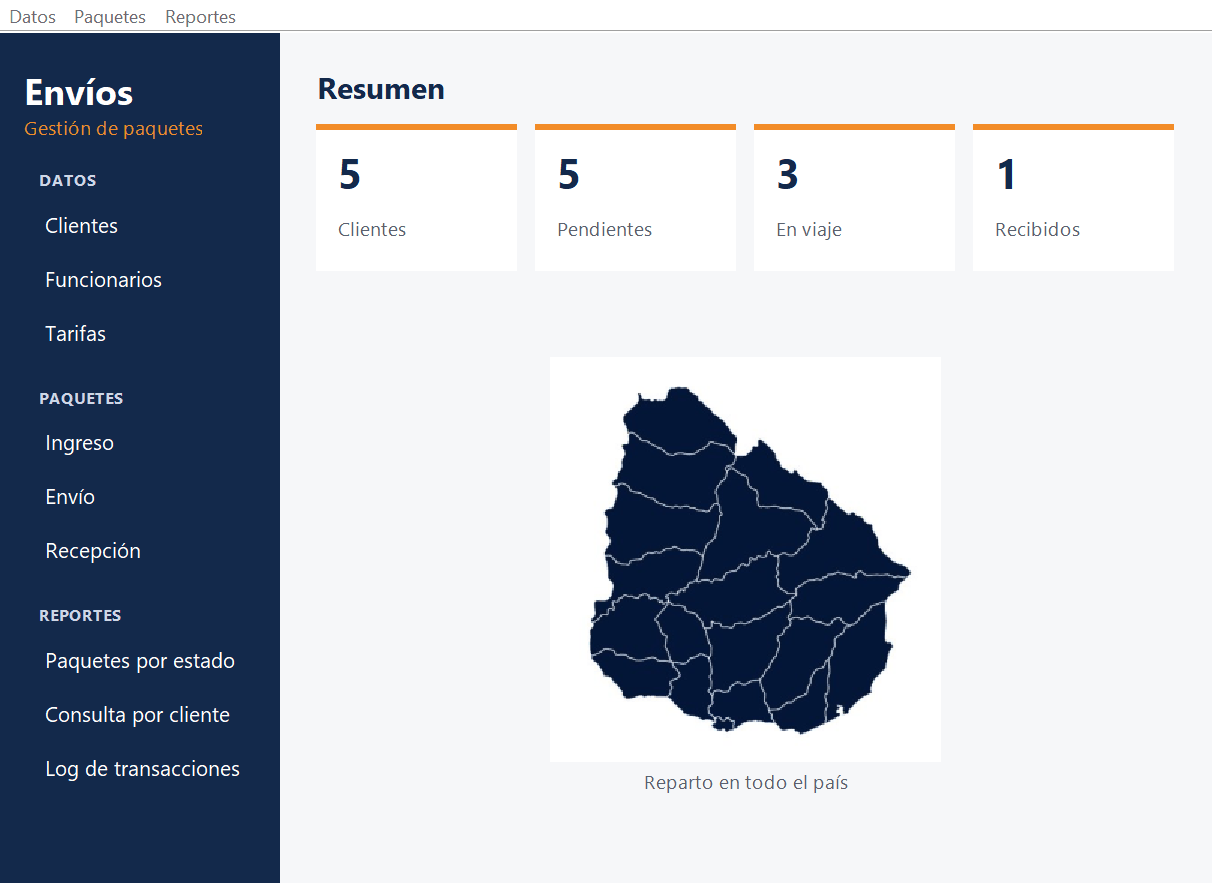
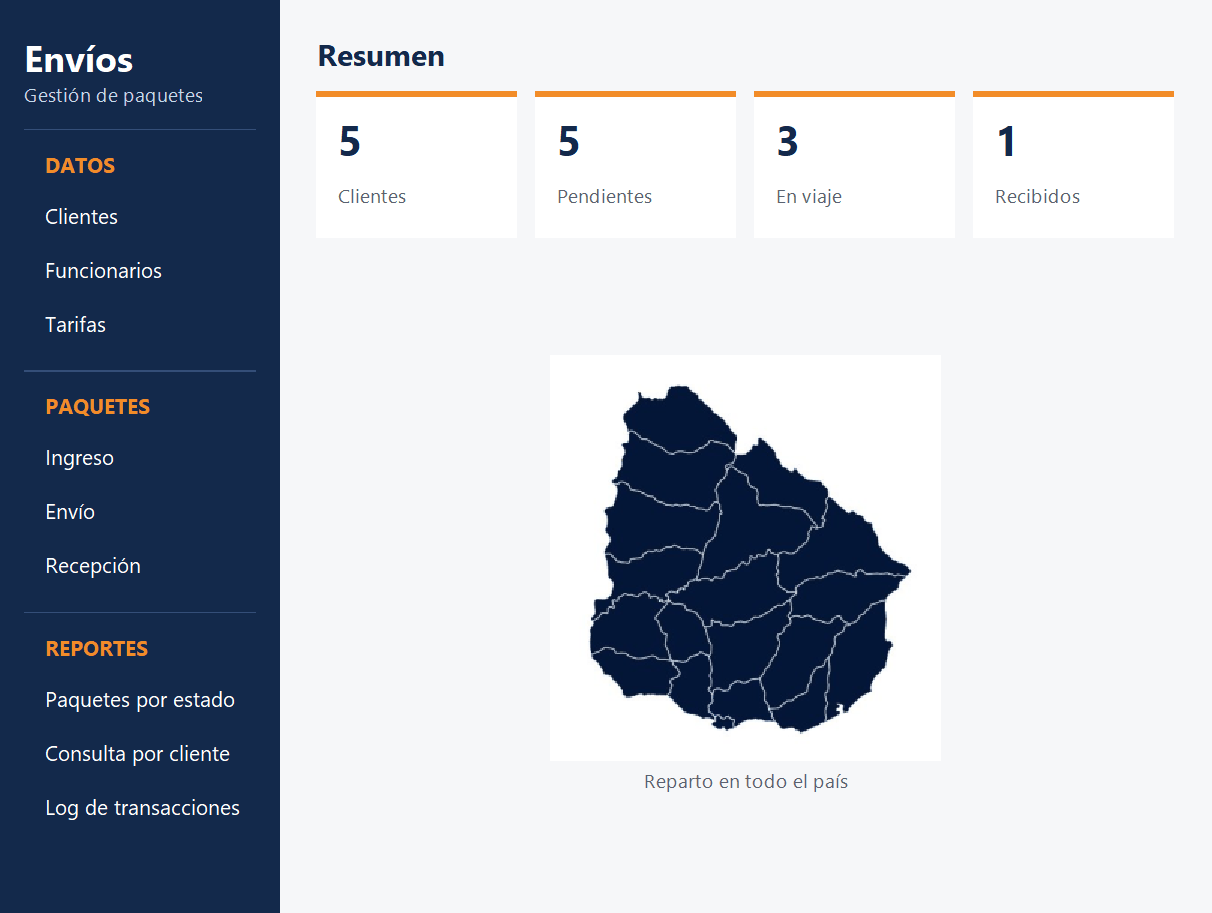
estilo: menú solo con la barra lateral y títulos de sección destacados
- Se quita la barra de menús (del .form y del código generado): las opciones están solo en la barra lateral.
  Los métodos que abrían cada ventana pasan a ser métodos comunes (abrirClientes, etc.).
- Los títulos de sección (Datos, Paquetes, Reportes) van en naranja, más grandes y separados por una línea.

diff --git a/src/interfaz/VentanaMenu.java b/src/interfaz/VentanaMenu.java
@@ -21,7 +21,6 @@ public class VentanaMenu extends javax.swing.JFrame implements Observer {
 
     // Pantalla de inicio: barra lateral con todas las opciones a la vista y, a la derecha, un resumen
     // que se actualiza solo (la ventana es Observer del sistema, igual que las demás).
-    // La barra de menús del diseñador queda arriba como atajo de teclado (Alt).
     private void armarInicio() {
         JPanel lateral = new JPanel();
         lateral.setLayout(new BoxLayout(lateral, BoxLayout.Y_AXIS));
@@ -32,22 +31,22 @@ public class VentanaMenu extends javax.swing.JFrame implements Observer {
         lblNombre.setFont(new Font("Segoe UI", Font.BOLD, 24));
         lblNombre.setForeground(Color.WHITE);
         JLabel lblLema = new JLabel("Gestión de paquetes");
-        lblLema.setForeground(Estilo.NARANJA);
+        lblLema.setForeground(Estilo.AZUL_TEXTO);
         lateral.add(lblNombre);
         lateral.add(lblLema);
 
         agregarSeccion(lateral, "DATOS");
-        lateral.add(crearBoton("Clientes", this::opcionClientesActionPerformed));
-        lateral.add(crearBoton("Funcionarios", this::opcionFuncionariosActionPerformed));
-        lateral.add(crearBoton("Tarifas", this::opcionTarifasActionPerformed));
+        lateral.add(crearBoton("Clientes", click -> abrirClientes()));
+        lateral.add(crearBoton("Funcionarios", click -> abrirFuncionarios()));
+        lateral.add(crearBoton("Tarifas", click -> abrirTarifas()));
         agregarSeccion(lateral, "PAQUETES");
-        lateral.add(crearBoton("Ingreso", this::opcionIngresoActionPerformed));
-        lateral.add(crearBoton("Envío", this::opcionEnvioActionPerformed));
-        lateral.add(crearBoton("Recepción", this::opcionRecepcionActionPerformed));
+        lateral.add(crearBoton("Ingreso", click -> abrirIngreso()));
+        lateral.add(crearBoton("Envío", click -> abrirEnvio()));
+        lateral.add(crearBoton("Recepción", click -> abrirRecepcion()));
         agregarSeccion(lateral, "REPORTES");
-        lateral.add(crearBoton("Paquetes por estado", this::opcionPaquetesPorEstadosActionPerformed));
-        lateral.add(crearBoton("Consulta por cliente", this::opcionConsultasPorClienteActionPerformed));
-        lateral.add(crearBoton("Log de transacciones", this::opcionLogTransaccionesActionPerformed));
+        lateral.add(crearBoton("Paquetes por estado", click -> abrirPaquetesPorEstado()));
+        lateral.add(crearBoton("Consulta por cliente", click -> abrirConsultaPorCliente()));
+        lateral.add(crearBoton("Log de transacciones", click -> abrirLogTransacciones()));
 
         lblClientes = new JLabel();
         lblPendientes = new JLabel();
@@ -87,19 +86,25 @@ public class VentanaMenu extends javax.swing.JFrame implements Observer {
         contenido.add(centro, BorderLayout.CENTER);
         setContentPane(contenido);
         setTitle("Envíos - Menú principal");
-        setSize(820, 620);
+        setSize(820, 640);
         setLocationRelativeTo(null);
     }
 
+    // Título de un grupo de opciones: en naranja y separado del grupo anterior por una línea fina.
     private void agregarSeccion(JPanel lateral, String nombre) {
         JLabel lblSeccion = new JLabel(nombre);
-        lblSeccion.setFont(new Font("Segoe UI", Font.BOLD, 11));
-        lblSeccion.setForeground(Estilo.AZUL_TEXTO);
-        lblSeccion.setBorder(BorderFactory.createEmptyBorder(18, 10, 4, 0));
+        lblSeccion.setFont(new Font("Segoe UI", Font.BOLD, 14));
+        lblSeccion.setForeground(Estilo.NARANJA);
+        lblSeccion.setBorder(BorderFactory.createCompoundBorder(
+                BorderFactory.createEmptyBorder(14, 0, 0, 0),
+                BorderFactory.createCompoundBorder(
+                        BorderFactory.createMatteBorder(1, 0, 0, 0, new Color(52, 78, 120)),
+                        BorderFactory.createEmptyBorder(12, 14, 6, 0))));
+        lblSeccion.setMaximumSize(new Dimension(Integer.MAX_VALUE, lblSeccion.getPreferredSize().height));   // la línea ocupa todo el ancho
         lateral.add(lblSeccion);
     }
 
-    // Botón de la barra lateral: ejecuta la misma acción que la opción de la barra de menús.
+    // Botón de la barra lateral.
     private JButton crearBoton(String texto, java.awt.event.ActionListener accion) {
         JButton boton = new JButton(texto);
         Estilo.botonLateral(boton);
@@ -155,112 +160,12 @@ public class VentanaMenu extends javax.swing.JFrame implements Observer {
     // <editor-fold defaultstate="collapsed" desc="Generated Code">//GEN-BEGIN:initComponents
     private void initComponents() {
 
-        jMenuBar = new javax.swing.JMenuBar();
-        jMenuDatos = new javax.swing.JMenu();
-        opcionClientes = new javax.swing.JMenuItem();
-        opcionFuncionarios = new javax.swing.JMenuItem();
-        opcionTarifas = new javax.swing.JMenuItem();
-        jMenuPaquetes = new javax.swing.JMenu();
-        opcionIngreso = new javax.swing.JMenuItem();
-        opcionEnvio = new javax.swing.JMenuItem();
-        opcionRecepcion = new javax.swing.JMenuItem();
-        jMenuReportes = new javax.swing.JMenu();
-        opcionPaquetesPorEstados = new javax.swing.JMenuItem();
-        opcionConsultasPorCliente = new javax.swing.JMenuItem();
-        opcionLogTransacciones = new javax.swing.JMenuItem();
-
         setDefaultCloseOperation(javax.swing.WindowConstants.EXIT_ON_CLOSE);
         addWindowListener(new java.awt.event.WindowAdapter() {
             public void windowClosing(java.awt.event.WindowEvent evt) {
                 formWindowClosing(evt);
             }
         });
-
-        jMenuDatos.setText("Datos");
-
-        opcionClientes.setText("Clientes");
-        opcionClientes.addActionListener(new java.awt.event.ActionListener() {
-            public void actionPerformed(java.awt.event.ActionEvent evt) {
-                opcionClientesActionPerformed(evt);
-            }
-        });
-        jMenuDatos.add(opcionClientes);
-
-        opcionFuncionarios.setText("Funcionarios");
-        opcionFuncionarios.addActionListener(new java.awt.event.ActionListener() {
-            public void actionPerformed(java.awt.event.ActionEvent evt) {
-                opcionFuncionariosActionPerformed(evt);
-            }
-        });
-        jMenuDatos.add(opcionFuncionarios);
-
-        opcionTarifas.setText("Tarifas");
-        opcionTarifas.addActionListener(new java.awt.event.ActionListener() {
-            public void actionPerformed(java.awt.event.ActionEvent evt) {
-                opcionTarifasActionPerformed(evt);
-            }
-        });
-        jMenuDatos.add(opcionTarifas);
-
-        jMenuBar.add(jMenuDatos);
-
-        jMenuPaquetes.setText("Paquetes");
-
-        opcionIngreso.setText("Ingreso");
-        opcionIngreso.addActionListener(new java.awt.event.ActionListener() {
-            public void actionPerformed(java.awt.event.ActionEvent evt) {
-                opcionIngresoActionPerformed(evt);
-            }
-        });
-        jMenuPaquetes.add(opcionIngreso);
-
-        opcionEnvio.setText("Envío");
-        opcionEnvio.addActionListener(new java.awt.event.ActionListener() {
-            public void actionPerformed(java.awt.event.ActionEvent evt) {
-                opcionEnvioActionPerformed(evt);
-            }
-        });
-        jMenuPaquetes.add(opcionEnvio);
-
-        opcionRecepcion.setText("Recepción");
-        opcionRecepcion.addActionListener(new java.awt.event.ActionListener() {
-            public void actionPerformed(java.awt.event.ActionEvent evt) {
-                opcionRecepcionActionPerformed(evt);
-            }
-        });
-        jMenuPaquetes.add(opcionRecepcion);
-
-        jMenuBar.add(jMenuPaquetes);
-
-        jMenuReportes.setText("Reportes");
-
-        opcionPaquetesPorEstados.setText("Paquetes por Estado");
-        opcionPaquetesPorEstados.addActionListener(new java.awt.event.ActionListener() {
-            public void actionPerformed(java.awt.event.ActionEvent evt) {
-                opcionPaquetesPorEstadosActionPerformed(evt);
-            }
-        });
-        jMenuReportes.add(opcionPaquetesPorEstados);
-
-        opcionConsultasPorCliente.setText("Consultas por Cliente");
-        opcionConsultasPorCliente.addActionListener(new java.awt.event.ActionListener() {
-            public void actionPerformed(java.awt.event.ActionEvent evt) {
-                opcionConsultasPorClienteActionPerformed(evt);
-            }
-        });
-        jMenuReportes.add(opcionConsultasPorCliente);
-
-        opcionLogTransacciones.setText("Log de Transacciones");
-        opcionLogTransacciones.addActionListener(new java.awt.event.ActionListener() {
-            public void actionPerformed(java.awt.event.ActionEvent evt) {
-                opcionLogTransaccionesActionPerformed(evt);
-            }
-        });
-        jMenuReportes.add(opcionLogTransacciones);
-
-        jMenuBar.add(jMenuReportes);
-
-        setJMenuBar(jMenuBar);
 
         javax.swing.GroupLayout layout = new javax.swing.GroupLayout(getContentPane());
         getContentPane().setLayout(layout);
@@ -277,50 +182,50 @@ public class VentanaMenu extends javax.swing.JFrame implements Observer {
         setLocationRelativeTo(null);
     }// </editor-fold>//GEN-END:initComponents
 
-    private void opcionClientesActionPerformed(java.awt.event.ActionEvent evt) {//GEN-FIRST:event_opcionClientesActionPerformed
+    private void abrirClientes() {
         interfaz.VentanaClientes vent = new interfaz.VentanaClientes(modelo);
         vent.setVisible(true);
-    }//GEN-LAST:event_opcionClientesActionPerformed
+    }
 
-    private void opcionFuncionariosActionPerformed(java.awt.event.ActionEvent evt) {//GEN-FIRST:event_opcionFuncionariosActionPerformed
+    private void abrirFuncionarios() {
         interfaz.VentanaFuncionarios vent = new interfaz.VentanaFuncionarios(modelo);
         vent.setVisible(true);
-    }//GEN-LAST:event_opcionFuncionariosActionPerformed
+    }
     
-    private void opcionTarifasActionPerformed(java.awt.event.ActionEvent evt) {//GEN-FIRST:event_opcionTarifasActionPerformed
+    private void abrirTarifas() {
         interfaz.VentanaTarifas vent = new interfaz.VentanaTarifas(modelo);
         vent.setVisible(true);
-    }//GEN-LAST:event_opcionTarifasActionPerformed
+    }
     
-    private void opcionIngresoActionPerformed(java.awt.event.ActionEvent evt) {//GEN-FIRST:event_opcionIngresoActionPerformed
+    private void abrirIngreso() {
         interfaz.VentanaIngreso vent = new interfaz.VentanaIngreso(modelo);
         vent.setVisible(true);
-    }//GEN-LAST:event_opcionIngresoActionPerformed
+    }
     
-    private void opcionEnvioActionPerformed(java.awt.event.ActionEvent evt) {//GEN-FIRST:event_opcionEnvioActionPerformed
+    private void abrirEnvio() {
         interfaz.VentanaEnvio vent = new interfaz.VentanaEnvio(modelo);
         vent.setVisible(true);
-    }//GEN-LAST:event_opcionEnvioActionPerformed
+    }
 
-    private void opcionRecepcionActionPerformed(java.awt.event.ActionEvent evt) {//GEN-FIRST:event_opcionRecepcionActionPerformed
+    private void abrirRecepcion() {
         interfaz.VentanaRecepcion vent = new interfaz.VentanaRecepcion(modelo);
         vent.setVisible(true);
-    }//GEN-LAST:event_opcionRecepcionActionPerformed
+    }
     
-    private void opcionPaquetesPorEstadosActionPerformed(java.awt.event.ActionEvent evt) {//GEN-FIRST:event_opcionPaquetesPorEstadosActionPerformed
+    private void abrirPaquetesPorEstado() {
         interfaz.VentanaPaquetesPorEstado vent = new interfaz.VentanaPaquetesPorEstado(modelo);
         vent.setVisible(true);
-    }//GEN-LAST:event_opcionPaquetesPorEstadosActionPerformed
+    }
     
-    private void opcionConsultasPorClienteActionPerformed(java.awt.event.ActionEvent evt) {//GEN-FIRST:event_opcionConsultasPorClienteActionPerformed
+    private void abrirConsultaPorCliente() {
         interfaz.VentanaConsultaPorCliente vent = new interfaz.VentanaConsultaPorCliente(modelo);
         vent.setVisible(true);
-    }//GEN-LAST:event_opcionConsultasPorClienteActionPerformed
+    }
 
-    private void opcionLogTransaccionesActionPerformed(java.awt.event.ActionEvent evt) {//GEN-FIRST:event_opcionLogTransaccionesActionPerformed
+    private void abrirLogTransacciones() {
         interfaz.VentanaLogTransacciones vent = new interfaz.VentanaLogTransacciones(modelo);
         vent.setVisible(true);
-    }//GEN-LAST:event_opcionLogTransaccionesActionPerformed
+    }
 
     private void formWindowClosing(java.awt.event.WindowEvent evt) {//GEN-FIRST:event_formWindowClosing
         try {
@@ -333,19 +238,6 @@ public class VentanaMenu extends javax.swing.JFrame implements Observer {
 
 
     // Variables declaration - do not modify//GEN-BEGIN:variables
-    private javax.swing.JMenuBar jMenuBar;
-    private javax.swing.JMenu jMenuDatos;
-    private javax.swing.JMenu jMenuPaquetes;
-    private javax.swing.JMenu jMenuReportes;
-    private javax.swing.JMenuItem opcionClientes;
-    private javax.swing.JMenuItem opcionConsultasPorCliente;
-    private javax.swing.JMenuItem opcionEnvio;
-    private javax.swing.JMenuItem opcionFuncionarios;
-    private javax.swing.JMenuItem opcionIngreso;
-    private javax.swing.JMenuItem opcionLogTransacciones;
-    private javax.swing.JMenuItem opcionPaquetesPorEstados;
-    private javax.swing.JMenuItem opcionRecepcion;
-    private javax.swing.JMenuItem opcionTarifas;
     // End of variables declaration//GEN-END:variables
     private Sistema modelo;
     private JLabel lblClientes, lblPendientes, lblEnviados, lblRecibidos;
